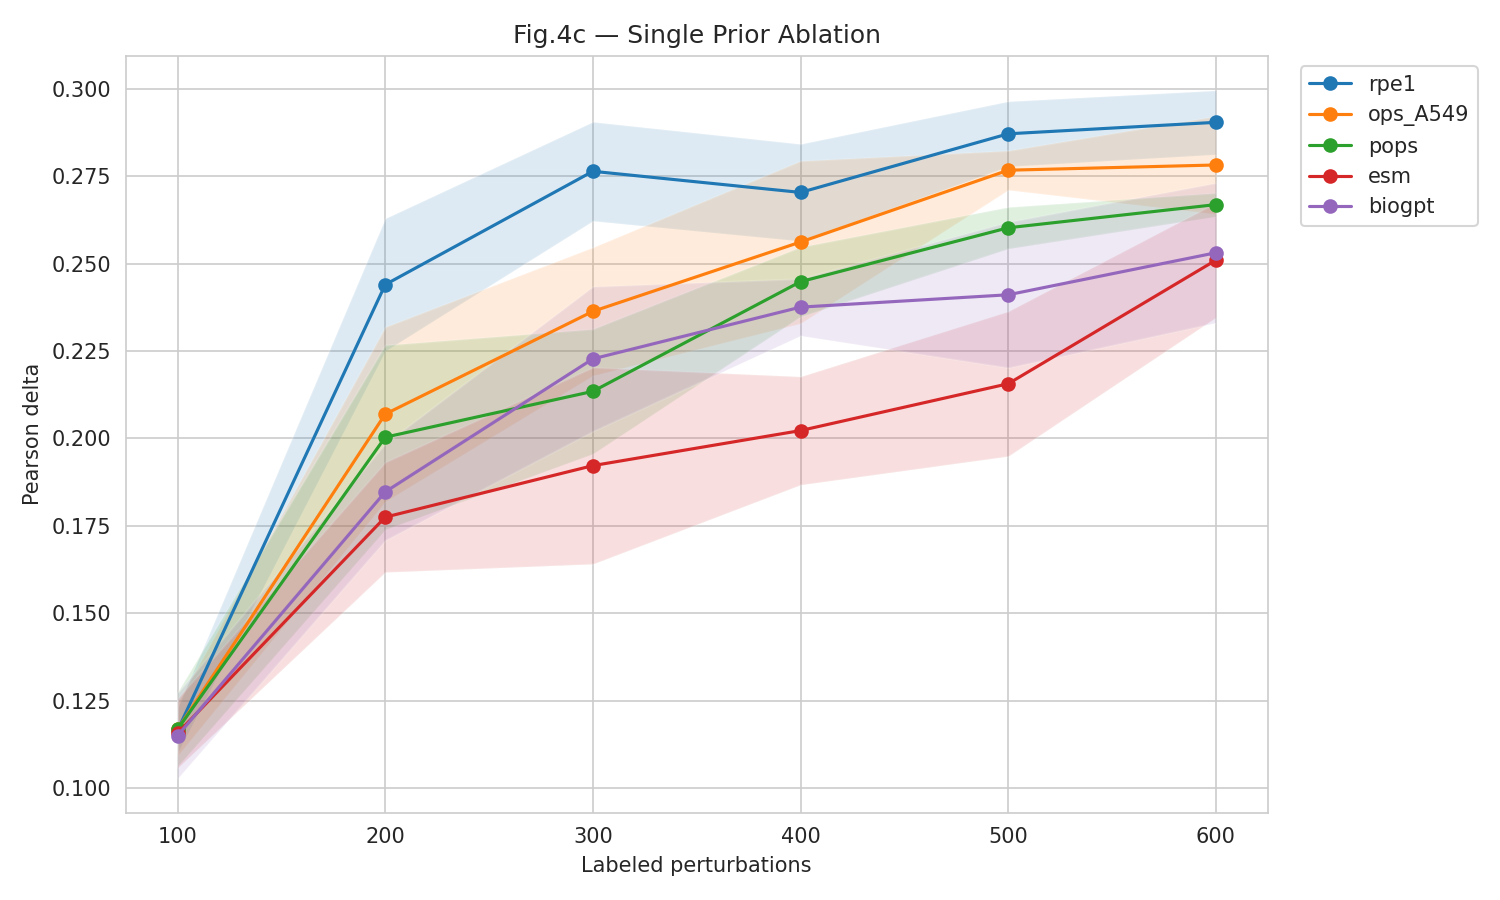
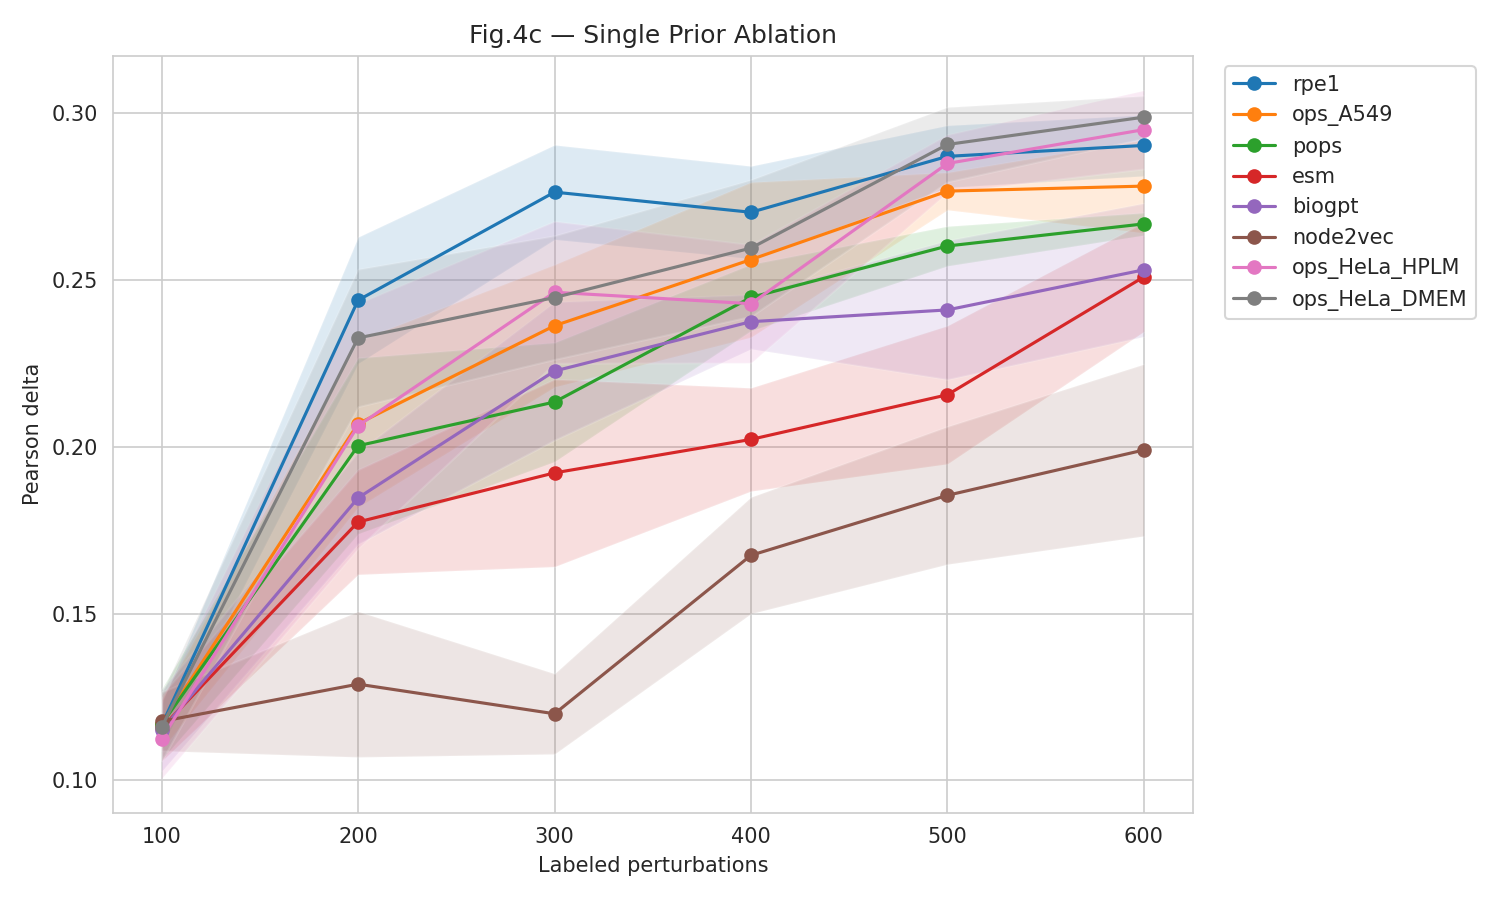
Complete Fig.4 and Fig.4c reproduction summaries.
Add full 8-prior Fig.4c comparison, reproduction summary manifest, log
recovery utility, and sync all aggregate tables/figures to thoughts.

diff --git a/reproduce_repo/recover_metrics_from_logs.py b/reproduce_repo/recover_metrics_from_logs.py
@@ -1,0 +1,132 @@
+#!/usr/bin/env python3
+"""Recover *_metrics.csv from run logs when result files were lost."""
+from __future__ import annotations
+
+import re
+import sys
+from pathlib import Path
+
+import pandas as pd
+
+from local_paths import REPO_ROOT, resolve_result_dir
+from reorganize_results import classify
+
+LOG_ROOT = Path("/data/zy/iterpert/logs")
+ROUND_RE = re.compile(r"Round (\d+) pearson delta: ([0-9.eE+-]+)")
+SAVED_RE = re.compile(r"Saved round metrics to (.+?_metrics\.csv)")
+
+
+class Args:
+    """Minimal namespace for resolve_result_dir / classify."""
+
+    def __init__(self, **kwargs):
+        for k, v in kwargs.items():
+            setattr(self, k, v)
+
+
+def infer_args_from_log(log_path: Path, wb_exp_name: str) -> Args:
+    text = log_path.read_text(errors="replace")
+    kwargs = {
+        "dataset_name": "replogle_k562_essential_1000hvg",
+        "epoch_per_cycle": 20,
+        "use_single_prior": "single_" in wb_exp_name,
+        "single_prior": "",
+        "use_prior": "prior" in wb_exp_name,
+        "kernel_strategy": "Core-Set",
+        "base_kernel": "diff_effect" if "diff_effect" in wb_exp_name else "cross_gene_out",
+        "strategy_name": "kernel_based_active_learning",
+    }
+    if kwargs["use_single_prior"]:
+        m = re.search(r"single_([a-zA-Z0-9_]+)_run", wb_exp_name)
+        if m:
+            prior = m.group(1)
+            kwargs["single_prior"] = prior if prior.endswith("_kernel") else prior + "_kernel"
+    if "TypiClust" in wb_exp_name:
+        kwargs["strategy_name"] = "TypiClust"
+    elif "KMeansSampling" in wb_exp_name:
+        kwargs["strategy_name"] = "KMeansSampling"
+    elif "Random" in wb_exp_name and "priormean" not in wb_exp_name:
+        kwargs["kernel_strategy"] = "Random"
+    elif "_BADGE_" in wb_exp_name or wb_exp_name.endswith("_BADGE_cross_gene_out"):
+        kwargs["kernel_strategy"] = "BADGE"
+    elif "BatchBALD" in wb_exp_name:
+        kwargs["kernel_strategy"] = "BatchBALD"
+    elif "ACS-FW" in wb_exp_name:
+        kwargs["kernel_strategy"] = "ACS-FW"
+    elif "LCMD" in wb_exp_name:
+        kwargs["kernel_strategy"] = "LCMD"
+    elif "BALD" in wb_exp_name and "BatchBALD" not in wb_exp_name:
+        kwargs["kernel_strategy"] = "BALD"
+    elif "Core-Set" in wb_exp_name and not kwargs["use_single_prior"]:
+        if kwargs["use_prior"]:
+            kwargs["kernel_strategy"] = "Core-Set"
+        else:
+            kwargs["kernel_strategy"] = "Core-Set"
+    if "Random_cross_gene" in wb_exp_name:
+        kwargs["kernel_strategy"] = "Random"
+    m = re.search(r"_run(\d+)", wb_exp_name)
+    run = int(m.group(1)) if m else int(log_path.stem.replace("run", ""))
+    kwargs["run"] = run
+    return Args(**kwargs)
+
+
+def parse_log(log_path: Path) -> tuple[str, list[dict]] | None:
+    text = log_path.read_text(errors="replace")
+    saved = SAVED_RE.search(text)
+    if not saved:
+        return None
+    csv_name = Path(saved.group(1)).name
+    wb_exp_name = csv_name.replace("_metrics.csv", "")
+
+    rows = []
+    for round_idx, val in ROUND_RE.findall(text):
+        n_labeled = 100 + int(round_idx) * 100
+        rows.append(
+            {
+                "run": infer_args_from_log(log_path, wb_exp_name).run,
+                "seed": 1,
+                "round": int(round_idx),
+                "n_labeled": n_labeled,
+                "pearson_delta": float(val),
+            }
+        )
+    if len(rows) < 6:
+        return None
+    return wb_exp_name, rows
+
+
+def target_path(wb_exp_name: str, log_path: Path) -> Path:
+    args = infer_args_from_log(log_path, wb_exp_name)
+    result_dir = Path(resolve_result_dir(args))
+    return result_dir / f"{wb_exp_name}_metrics.csv"
+
+
+def recover_glob(pattern: str) -> int:
+    recovered = 0
+    for log_path in sorted(LOG_ROOT.glob(pattern)):
+        parsed = parse_log(log_path)
+        if not parsed:
+            continue
+        wb_exp_name, rows = parsed
+        dest = target_path(wb_exp_name, log_path)
+        dest.parent.mkdir(parents=True, exist_ok=True)
+        pd.DataFrame(rows).to_csv(dest, index=False)
+        recovered += 1
+        print(f"  {log_path.name} -> {dest.relative_to(REPO_ROOT)}")
+    return recovered
+
+
+def main() -> None:
+    total = 0
+    print("Recovering Fig.4 Essential 1K...")
+    total += recover_glob("fig4/iterpert/run*.log")
+    total += recover_glob("fig4/baselines/*/run*.log")
+    print("Recovering Fig.4c single prior...")
+    total += recover_glob("fig4c/*/run*.log")
+    print(f"Recovered {total} metrics files")
+    if total == 0:
+        sys.exit(1)
+
+
+if __name__ == "__main__":
+    main()

diff --git a/results/README.md b/results/README.md
@@ -2,48 +2,34 @@
 
 ```
 results/
-├── fig4/
+├── fig4/                          # 论文 Fig.4 Essential 1K
 │   ├── essential_1k/
-│   │   ├── iterpert/
-│   │   │   ├── runs/        # 原始 run 输出 (*.pkl, *_metrics.csv)
-│   │   │   ├── tables/      # summary.csv, pivot.csv
-│   │   │   ├── figures/     # 方法专属图
-│   │   │   └── manifests/   # 封存说明
-│   │   ├── baselines/
-│   │   │   ├── random/      # 同上结构
-│   │   │   ├── badge/
-│   │   │   └── ...
-│   │   └── smoke/runs/
-│   ├── comparison/          # 跨方法对比
-│   │   ├── tables/          # all_methods_summary.csv 等
-│   │   ├── figures/         # all_methods.png 等
-│   │   └── manifests/
-│   └── _scripts/            # 维护脚本 wrapper
-├── fig4c/
-│   └── single_prior/
-│       └── {prior}/
-│           └── runs/
-├── fig6/genome_wide/runs/   # Fig.6 (future)
-└── misc/
+│   │   ├── iterpert/runs/         # 10× metrics.csv（主实验）
+│   │   ├── baselines/{method}/runs/
+│   │   └── */tables/              # 每方法 summary/pivot
+│   └── comparison/                # 跨方法汇总（tables + figures）
+├── fig4c/                         # 论文 Fig.4c 单 prior 消融
+│   ├── single_prior/{prior}/runs/ # 每个 prior 5× metrics.csv
+│   └── comparison/                # 8 prior 对比曲线
+├── pilot/                         # thoughts 分支 P1 机制实验（非论文主复现）
+│   ├── iterpert_runs/             # alignment/dup/prior_only 等 smoke
+│   └── selection_logs/            # --selection_log 诊断 CSV
+├── analysis/                      # E0 离线分析（thoughts 分支脚本产出）
+└── README.md
 ```
 
 ## 维护命令
 
-从仓库根目录运行（推荐）：
-
 ```bash
-# 1. 归类 results/ 根目录下的 flat GEARS_* 文件 → fig4/fig4c/.../runs/
+# 归类 flat GEARS_* → fig4/fig4c/.../runs/
 python reproduce_repo/reorganize_results.py
 
-# 2. 整理 runs/tables/comparison 二级结构（已整理时会提示 up to date）
+# 整理二级目录结构
 python reproduce_repo/reorganize_results_structure.py
 
-# 3. 重新生成 Fig.4 汇总表和对比图
+# 汇总 Fig.4 / Fig.4c
 python reproduce_repo/aggregate_fig4_results.py
+python reproduce_repo/aggregate_fig4c_results.py
 ```
 
-也可从 `results/fig4/_scripts/` 运行同名 wrapper。
-
-**注意**：步骤 1 处理根目录散落的 `GEARS_*`；步骤 2 不会移动 flat 文件。若根目录仍有 `GEARS_*`，请先跑步骤 1。
-
-新实验输出路径由 `local_paths.resolve_result_dir()` 自动写入 `{category}/runs/`。
+**注意**：`pilot/` 和 `analysis/` 不属于论文 Fig.4 主实验，不要与 `fig4/essential_1k/` 混放。

diff --git a/results/REPRODUCTION_SUMMARY.md b/results/REPRODUCTION_SUMMARY.md
@@ -1,0 +1,54 @@
+# ITERpert 本地复现汇总
+
+**Commit**: `52011a935e8e9e9a14b7d92a99c6c014d46e6db5`  
+**数据根**: `/data/zy/iterpert`  
+**完成日期**: 2026-08-23
+
+## Fig.4 Essential 1K（10 方法 × 10 runs）— 完成
+
+| 排名 | 方法 | @600 Pearson δ |
+|------|------|----------------|
+| 1 | **IterPert** | 0.2845 ± 0.0121 |
+| 2 | BADGE | 0.2770 ± 0.0126 |
+| 3 | LCMD | 0.2764 ± 0.0111 |
+| 4 | ACS-FW | 0.2747 ± 0.0159 |
+| 5 | TypiClust | 0.2747 ± 0.0126 |
+| 6 | KMeans | 0.2746 ± 0.0187 |
+| 7 | Random | 0.2620 ± 0.0139 |
+| 8 | Core-Set | 0.2512 ± 0.0257 |
+| 9 | BatchBALD | 0.2500 ± 0.0158 |
+| 10 | BALD | 0.2487 ± 0.0136 |
+
+- 原始 metrics: `results/fig4/essential_1k/*/runs/`（未纳入 git）
+- 汇总: `results/fig4/comparison/`
+
+## Fig.4c 单 Prior 消融（8 prior × 5 runs）— 完成
+
+| 排名 | Prior | @600 Pearson δ |
+|------|-------|----------------|
+| 1 | ops_HeLa_DMEM | 0.2989 ± 0.0064 |
+| 2 | ops_HeLa_HPLM | 0.2952 ± 0.0118 |
+| 3 | rpe1 | 0.2904 ± 0.0091 |
+| 4 | ops_A549 | 0.2782 ± 0.0140 |
+| 5 | pops | 0.2669 ± 0.0033 |
+| 6 | biogpt | 0.2531 ± 0.0200 |
+| 7 | esm | 0.2510 ± 0.0164 |
+| 8 | node2vec | 0.1991 ± 0.0258 |
+
+- 原始 metrics: `results/fig4c/single_prior/*/runs/`
+- 汇总: `results/fig4c/comparison/`
+
+## 未完成
+
+| 实验 | 状态 | 阻塞 |
+|------|------|------|
+| Fig.6 GW 主动学习 | 未开始 | genome_wide embedding 未下载 |
+| Demo notebooks | 部分完成 | knowledge_kernels_process 可选 |
+
+## 维护命令
+
+```bash
+cd reproduce_repo
+python aggregate_fig4_results.py
+python aggregate_fig4c_results.py
+```
